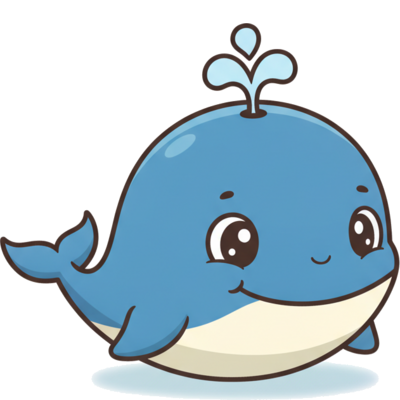
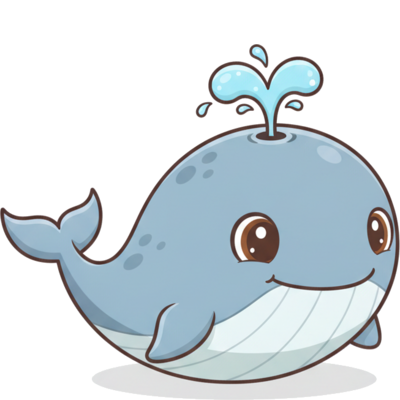
Defender: the 12 new friends redrawn to match the cast; paint-over fixes
- Bumble to Uni redrawn with Hopper, Sparky and Puddles as style
  references: the same eyes, outlines and shading as the original cast.
- gen_art.py flattens references on white (a transparent one read as
  black and the model copied the black background).
- paint_over.py pads the blockout to the model's 9:16 frame and crops
  back, so the painting lines up; --soft blurs the sketch. A second,
  calmer Backyard layout (backyard2) is kept for later, but the model
  did not follow sparse layouts reliably, so the Backyard is unchanged.
Build 43.

Claude-Session: https://claude.ai/code/session_01EFREJBX8jm5rRQPAyJTUcN

diff --git a/defender/index.html b/defender/index.html
@@ -476,7 +476,7 @@
     <div class="wallet"><span class="pill coins">🪙 <span class="coinsN">0</span></span><span class="pill gems">💎 <span class="gemsN">0</span></span><span class="pill tix">🎟 <span class="tixN">0</span></span></div>
     <h1 class="display"><small>Why, Dad?</small>Defender</h1>
     <p class="tag hand">No dodging. Only wondering.</p>
-    <div class="build">build 42</div>
+    <div class="build">build 43</div>
     <canvas id="titleParty" width="880" height="660"></canvas>
     <div class="corner-r"><button class="btn icon ghost" id="homeMissions" aria-label="Missions">📋<i class="dot" id="misDot2" hidden></i></button><button class="btn icon ghost" id="homeHow" aria-label="How to play">❓</button><button class="btn icon ghost" id="homeSettings" aria-label="Settings">⚙</button></div>
     <div class="side" hidden>

diff --git a/defender/sw.js b/defender/sw.js
@@ -1,6 +1,6 @@
 // Why, Dad? Defender: offline first. Everything the game needs is cached on first visit,
 // so it opens with no signal. Bump CACHE when the build changes.
-const CACHE = 'whydad-defender-b42';
+const CACHE = 'whydad-defender-b43';
 const CORE = ['./', './index.html', './manifest.json',
   './assets/mascot_wave.png', './assets/mascot_pointing.png', './assets/mascot_amazed.png', './assets/mascot_talking.png', './assets/webster.png',
   './assets/icon-192.png', './assets/home_bg.png', './assets/dad_face.png', './assets/icon-512.png',

diff --git a/defender/tools/paint_over.py b/defender/tools/paint_over.py
@@ -8,6 +8,9 @@ sys.path.insert(0, os.path.dirname(os.path.abspath(__file__)))
 import gen_art
 
 KEY = {  # what each blockout colour means, per arena
+  'backyard2': ('a family backyard lawn, mostly open grass', 'almost all of it is one continuous, calm, freshly mown lawn with soft mowing stripes and nothing on it, the lighter middle blending in with no visible edge, ring or oval; '
+               'the brown bands with pale squares down both sides are white wooden picket fences seen from straight above; the grey rectangle on the right is the roof of a small garden shed seen from above, tucked against the fence; '
+               'the big dark green circle on the left is a leafy tree canopy; the two small green circles are round bushes; the two narrow brown beds with coloured dots are flower beds against the fences. Keep it calm and uncluttered'),
   'backyard': ('a family backyard lawn', 'the lighter middle is an empty, smooth, freshly mown lawn with nothing on it (no flowers, no objects, no paths), and it blends into the rest of the grass with no visible edge, ring or oval; '
                'the darker green around it is longer grass; the brown bands with pale squares are a white wooden picket fence seen from straight above, posts and rails; '
                'the grey rectangle top-left is the roof of a small garden shed seen from above; the big dark green circles are leafy tree canopies seen from above; '
@@ -18,16 +21,19 @@ def main():
     a = sys.argv[1:]; name, out = a[0], a[a.index('--out') + 1] if '--out' in a else a[1]
     refs = [a[i + 1] for i, x in enumerate(a) if x == '--ref']
     what, legend = KEY[name]
-    prompt = (f'The first image is only a rough colour sketch of the layout of a top-down game arena showing {what}. '
+    prompt = (f'The first image is only a rough, blurry colour sketch of the layout of a top-down game arena showing {what}. '
               f'Use it purely as a guide for composition: put each thing in the same place and at the same size, seen straight down from above, '
               f'but do not keep any flat shapes or flat colours. Fully render every part as detailed, textured, shaded illustration: grass with soft mowing stripes and tufts, '
               f'fence planks with shadows, shingles on the shed roof, leafy canopies with highlights and cast shadows, individual flowers. Legend of the sketch: {legend}. '
               + (f'Match the art style, colours, outlines and texture of the other image{"s" if len(refs) > 1 else ""} exactly, as if painted by the same artist. ' if refs else '')
               + gen_art.STYLE + ' Plain scenery only: nothing has eyes or a face, no characters, no animals, no text, no frame. The scenery runs off all four edges.')
-    png = gen_art.call(prompt, '9:16', refs=[os.path.join('blockouts', name + '.png')] + refs)
+    src = os.path.join('blockouts', name + '.png'); padded = os.path.join('blockouts', name + '_916.png')
+    w, h = map(int, subprocess.run(['identify', '-format', '%w %h', src], capture_output=True, text=True).stdout.split()); H916 = round(w * 16 / 9)
+    subprocess.run(['convert', src, '-gravity', 'center', '-background', '#70a552', '-extent', f'{w}x{H916}'] + (['-blur', '0x6', '-attenuate', '.4', '+noise', 'Gaussian'] if '--soft' in sys.argv else []) + [padded], check=True)  # --soft: a blurry sketch the model won't copy shape for shape
+    png = gen_art.call(prompt + ' Keep the exact framing of the sketch: same edges, nothing zoomed, shifted or cropped, so the painting lines up with the sketch when laid on top of it.', '9:16', refs=[padded] + refs)
     path = os.path.join(gen_art.ASSETS, out + '.png'); tmp = path + '.tmp.png'
     open(tmp, 'wb').write(png)
-    subprocess.run(['convert', tmp, '-resize', '480x800^', '-gravity', 'center', '-extent', '480x800', tmp], check=True)
+    subprocess.run(['convert', tmp, '-resize', '480x853!', '-gravity', 'center', '-crop', '480x800+0+0', '+repage', tmp], check=True)  # undo the padding
     os.replace(tmp, path); print('->', os.path.relpath(path))
 
 if __name__ == '__main__': main()

diff --git a/defender/tools/blockout.py b/defender/tools/blockout.py
@@ -36,7 +36,24 @@ def backyard():
     for i, (sx, sy) in enumerate([(240, 790), (226, 762)]): d.ellipse(r(sx - 16, sy - 10, sx + 16, sy + 10), fill=(185, 180, 170))
     return im
 
+# the visible part of the arena: the top bar covers about y < 170 and the Patience bar and tray about y > 650,
+# so the decoration lives in narrow strips down the two sides, between those, and stays small
+def backyard2():
+    im = Image.new('RGB', (W * S, H * S), (112, 165, 82)); r = lambda *b: [v * S for v in b]
+    glow = Image.new('L', im.size, 0); ImageDraw.Draw(glow).ellipse(r(CX - 225, CY - 290, CX + 225, CY + 290), fill=255)
+    im = Image.composite(Image.new('RGB', im.size, (140, 190, 100)), im, glow.filter(ImageFilter.GaussianBlur(60 * S))); d = ImageDraw.Draw(im)
+    for side in (0, W - 20):  # picket fences down both sides, the whole height
+        d.rectangle(r(side, 0, side + 20, H), fill=(120, 82, 50))
+        for y in range(6, H, 26): d.rectangle(r(side + 4, y, side + 16, y + 12), fill=(236, 226, 205))
+    d.rectangle(r(W - 92, 190, W - 20, 290), fill=(140, 120, 110)); d.line(r(W - 92, 240, W - 20, 240), fill=(100, 85, 78), width=4 * S)  # shed roof, right
+    d.ellipse(r(-10, 520, 92, 622), fill=(45, 100, 50))  # a tree canopy, left
+    for bx, by in [(44, 230), (446, 470)]: d.ellipse(r(bx - 24, by - 22, bx + 24, by + 22), fill=(60, 120, 55))  # two bushes
+    for bx, by, bw, bh in [(20, 330, 46, 120), (W - 66, 540, 46, 100)]:  # two narrow flower beds against the fences
+        d.rounded_rectangle(r(bx, by, bx + bw, by + bh), radius=12 * S, fill=(125, 90, 60))
+        for i in range(8): px, py = bx + 8 + (i * 17) % (bw - 16), by + 8 + (i * 29) % (bh - 16); d.ellipse(r(px, py, px + 9, py + 9), fill=[(220, 60, 60), (245, 200, 60), (240, 240, 240)][i % 3])
+    return im
+
 if __name__ == '__main__':
     name = sys.argv[1] if len(sys.argv) > 1 else 'backyard'
-    os.makedirs(OUT, exist_ok=True); im = {'backyard': backyard}[name]()
+    os.makedirs(OUT, exist_ok=True); im = {'backyard': backyard, 'backyard2': backyard2}[name]()
     im.save(os.path.join(OUT, name + '.png')); print('->', os.path.join('blockouts', name + '.png'), im.size)

diff --git a/defender/tools/gen_art.py b/defender/tools/gen_art.py
@@ -132,7 +132,11 @@ def jobs():
 if __name__ == '__main__':
     if not KEY: print('GEMINI_API_KEY is not set; relying on the network to add it (a proxy secret), otherwise requests will fail with 401')
     argv = sys.argv[1:]; opt = lambda k: argv[argv.index(k) + 1] if k in argv else None
-    if opt('--ref'): REFS = [os.path.join(ASSETS, r) if not os.path.exists(r) else r for r in opt('--ref').split(',')]
+    if opt('--ref'):  # flattened on white: a transparent reference reads as black, and the model copies the black background
+        REFS = []
+        for r in opt('--ref').split(','):
+            src = os.path.join(ASSETS, r) if not os.path.exists(r) else r; flat = os.path.join('/tmp', 'ref_' + os.path.basename(src))
+            subprocess.run(['convert', src, '-background', 'white', '-alpha', 'remove', '-alpha', 'off', flat], check=True); REFS.append(flat)
     SUFFIX = opt('--suffix') or ''
     args = [a for i, a in enumerate(argv) if not a.startswith('--') and (i == 0 or argv[i - 1] not in ('--ref', '--suffix'))]; force = '--force' in sys.argv
     os.makedirs(ASSETS, exist_ok=True); n = 0
